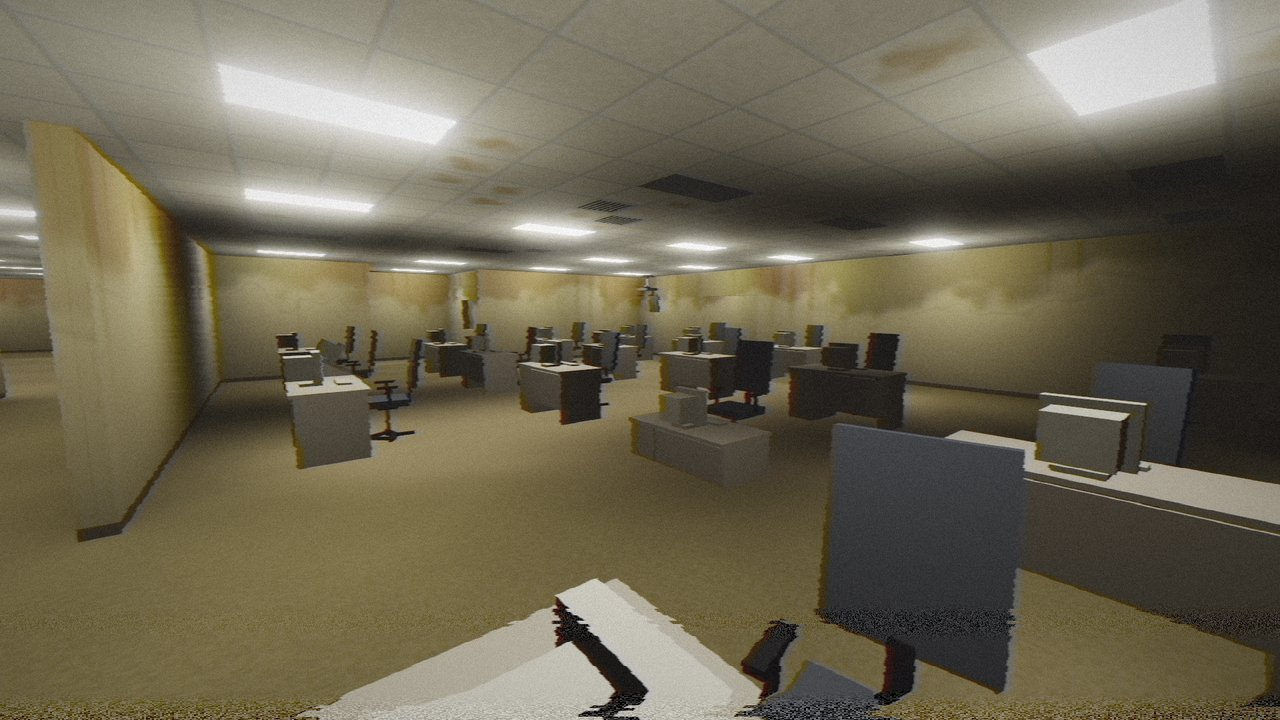
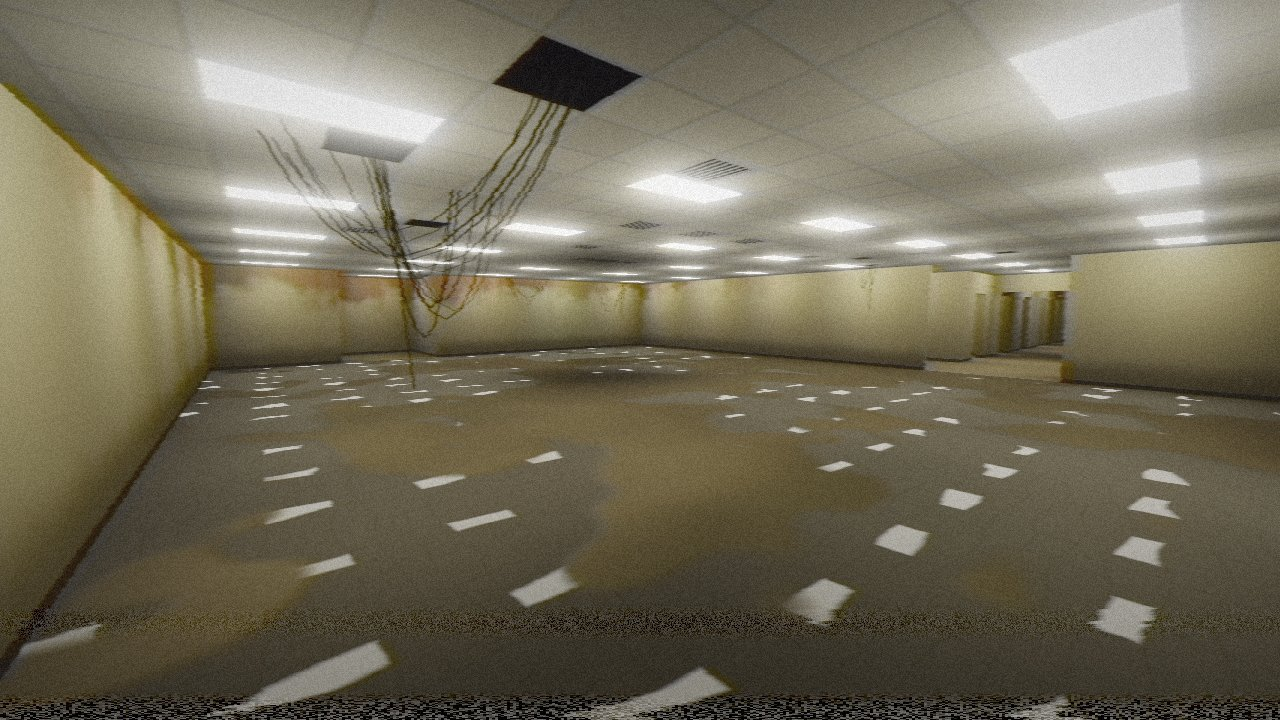
MIT license; camcorder screenshot now shows the flooded room

diff --git a/README.md b/README.md
@@ -38,7 +38,7 @@ There is nothing to fight. There is a lot to find.
 | ![A room lit red, with cables hanging from missing ceiling tiles](docs/shots/red.jpg) | ![A red exit sign over a doorway in a dark room](docs/shots/exit.jpg) |
 | ![Rows of stacking chairs filling an empty hall](docs/shots/chairs.jpg) | ![A staircase climbing to the floor above](docs/shots/stairs.jpg) |
 
-![The office seen through the camcorder look, with colour smear and tape noise](docs/shots/camcorder.jpg)
+![A flooded office floor reflecting the ceiling lights, seen through the camcorder look with colour smear and tape noise](docs/shots/camcorder.jpg)
 
 ## Controls
 
@@ -107,4 +107,4 @@ Open `index.html` in a WebGPU browser. Add `?seed=1234` to the URL to pick a bui
 
 ---
 
-Made by Pantomimic Software.
+Made by Pantomimic Software. Released under the [MIT License](LICENSE).
